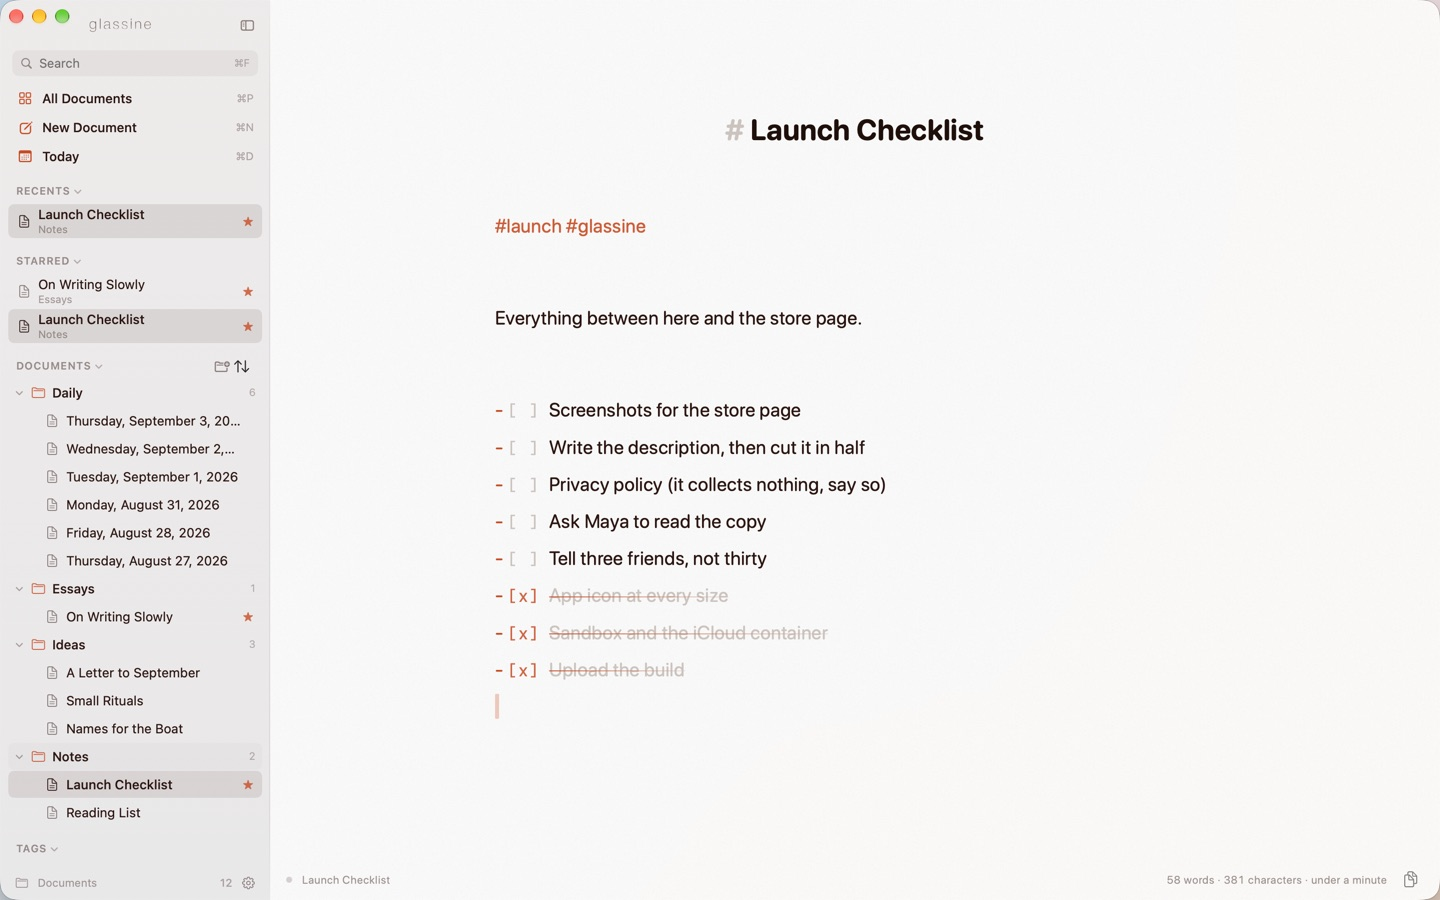
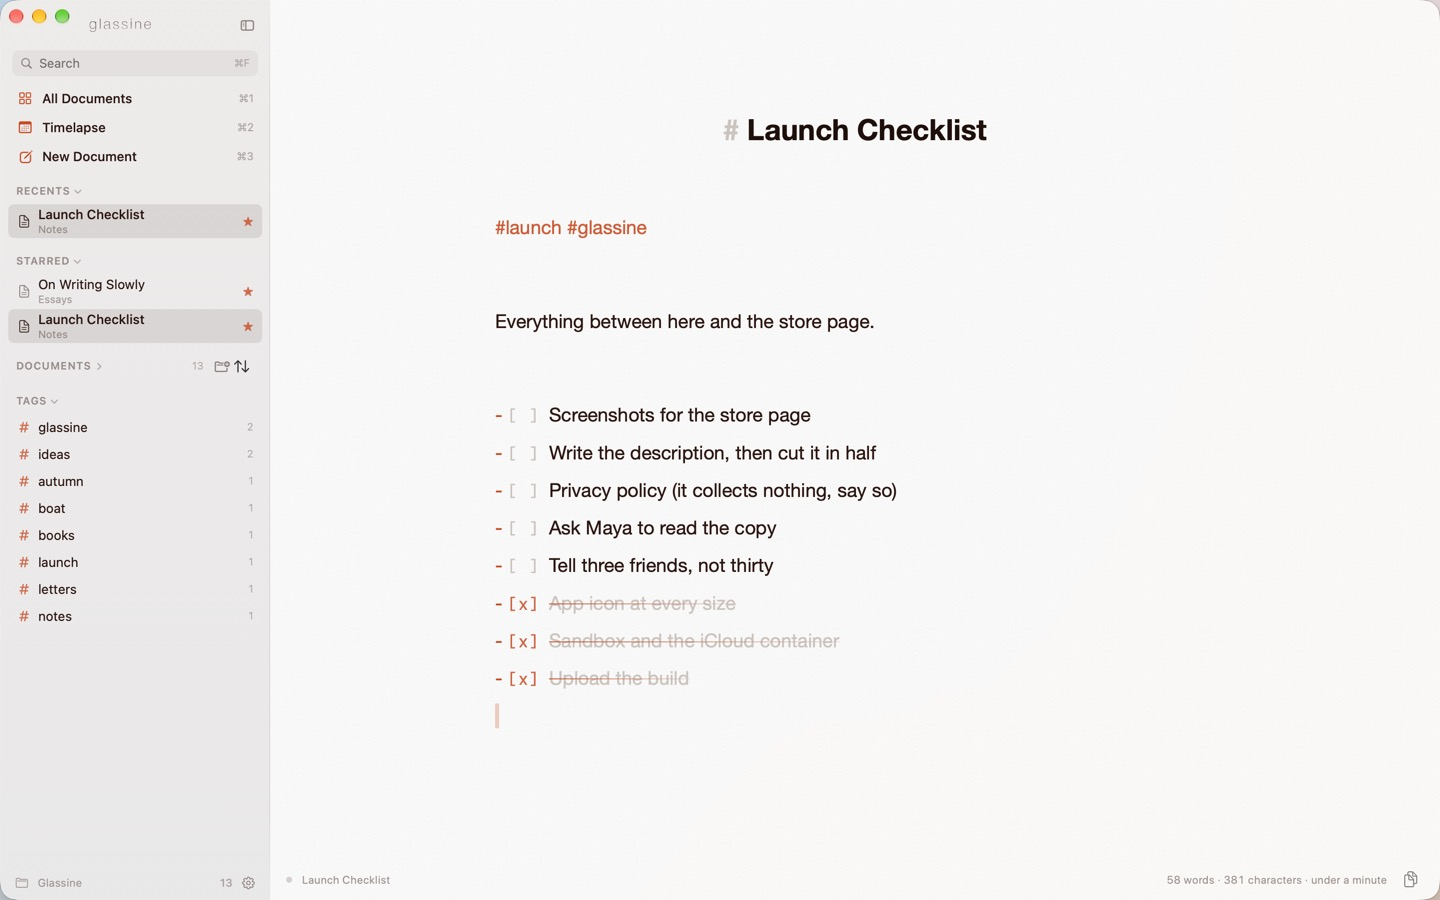
Site: new pictures, and the bar, the menu and chips on the front door
Eight pictures taken by site/screenshots.sh from the direct build, over a
temporary copy of the showcase library, with the full composite capture so
the glass is real: the six the front door, the README and the manual
already carried, retaken with the Timelapse row and the corridor as they
are now, and two new ones, the formatting bar over a selection with the
syntax hidden and the slash menu under the caret. A new showcase note,
Field Notes, holds the chips and the rule they show.

glassine.ink gains two cards, Formatting as you go and Slash commands, and
three lines under And the rest: syntax hidden, chips, float on top. The
manual's formatting page shows both pictures; the building page notes the
new script.

Claude-Session: https://claude.ai/code/session_01E5SPXFRmmR5PWeY6W3AsFB

diff --git a/site/index.html b/site/index.html
@@ -198,6 +198,14 @@
         <img src="/daily.jpg" alt="Timelapse, the corridor of daily notes" width="720" height="450" loading="lazy">
         <figcaption><b>Timelapse.</b> Today's note in front, earlier days receding behind it. Scroll to walk back.</figcaption>
       </figure>
+      <figure class="card">
+        <img src="/writing.jpg" alt="The formatting bar over a selection, with chips and a horizontal rule, the Markdown syntax hidden" width="720" height="450" loading="lazy">
+        <figcaption><b>Formatting as you go.</b> Select words and a bar appears over them. Chips put a name in a capsule. Hide the syntax and the page reads clean; the paragraph you are in keeps its marks.</figcaption>
+      </figure>
+      <figure class="card">
+        <img src="/slash.jpg" alt="The slash menu open under the caret" width="720" height="450" loading="lazy">
+        <figcaption><b>Slash commands.</b> <span class="kbd">/</span> at the start of a line: headings, lists, tasks, a quote, a code block, a rule, a link, a chip, today's date. Keep typing to filter.</figcaption>
+      </figure>
     </div>
   </section>
 
@@ -210,7 +218,9 @@
       <li><b>Autosave that never asks.</b> Half a second after you stop typing, and every few seconds while you keep going.</li>
       <li><b>Tasks that behave.</b> Click a box; the strike sweeps across; a moment later the item settles below the unfinished ones.</li>
       <li><b>Dates as you type.</b> <code>@today</code> becomes the date, drawn as a capsule, kept as text.</li>
-      <li><b>Markdown, lightly styled.</b> Syntax stays visible but steps back — headings, emphasis, code, quotes, lists, links, tags.</li>
+      <li><b>Markdown, lightly styled — or hidden.</b> The marks step back, or leave the page altogether; the file is the same plain text either way.</li>
+      <li><b>Chips.</b> <span class="kbd">⌘⇧H</span> puts a word in a capsule, like a date's. In the file it is <code>==this==</code>, which other editors read too.</li>
+      <li><b>Float on top.</b> <span class="kbd">⌘.</span> keeps the window over everything else, Stage Manager included.</li>
       <li><b>Nothing sent anywhere.</b> No accounts, no analytics, no servers. The <a href="https://docs.glassine.ink/about/privacy">privacy page</a> is one paragraph.</li>
     </ul>
   </section>

diff --git a/README.md b/README.md
@@ -19,11 +19,15 @@ Native Swift (SwiftUI + AppKit), no dependencies, no Xcode project — a Swift p
   </tr>
   <tr>
     <td><img src="docs/screenshots/library.jpg" alt="All Documents: the library laid out as a wall of cards"></td>
-    <td><img src="docs/screenshots/daily.jpg" alt="Daily: today's note in front, earlier days receding behind it"></td>
+    <td><img src="docs/screenshots/daily.jpg" alt="Timelapse: today's note in front, earlier days receding behind it"></td>
+  </tr>
+  <tr>
+    <td><img src="docs/screenshots/writing.jpg" alt="The formatting bar over a selection, chips in capsules and a rule, with the Markdown syntax hidden"></td>
+    <td><img src="docs/screenshots/slash.jpg" alt="The slash menu open under the caret"></td>
   </tr>
 </table>
 
-Focus mode and Review; All Documents and Timelapse.
+Focus mode and Review; All Documents and Timelapse; the formatting bar with the syntax hidden, and the slash menu.
 
 There's a [45-second walkthrough](docs/demo.mp4) of the editor, Review mode and the All Documents mosaic as well, and the full manual is at [docs.glassine.ink](https://docs.glassine.ink).
 
@@ -200,7 +204,7 @@ Sources/Glassine/
 Resources/    Info.plist, icon (make_icon.py draws it), entitlements for each build flavor
 docs/appstore/  the store listing, a showcase library, and the script that takes the screenshots
 docs/site/    the documentation site (Mintlify): docs.json plus one .mdx per page
-site/         glassine.ink, the one-page site (static HTML, served by Vercel; vercel.json holds the redirects)
+site/         glassine.ink, the one-page site (static HTML, served by Vercel; vercel.json holds the redirects; screenshots.sh takes its pictures, the README's and the manual's)
 build.sh      assembles and signs Glassine.app (--appstore for the sandboxed flavor)
 release.sh    notarized .dmg for direct download;  appstore.sh  signed .pkg for the Mac App Store
 ```

diff --git a/docs/appstore/library/Notes/Field Notes.md b/docs/appstore/library/Notes/Field Notes.md
@@ -1,0 +1,23 @@
+# Field Notes
+
+#glassine #notes
+
+Things learned while building ==Glassine==, kept here so they are not learned twice.
+
+## What the glass wants
+
+The blur needs something behind it. Over an empty desktop the window is only a colour; over a photograph it comes alive. ==Stage Manager== keeps the window in its own set unless you ask it to float, and now you can ask.
+
+A rule, for the record:
+
+---
+
+## Small things people notice
+
+- The caret. Everyone mentions the caret.
+- ==Timelapse==, the corridor of days, before the sidebar and before the themes.
+- That `@today` becomes a date and stays plain text: @September 6, 2026.
+- [ ] Ask ==Maya== whether the chips read as chips
+- [x] Ship the formatting bar
+
+Next week: the direct download, then a long walk.
